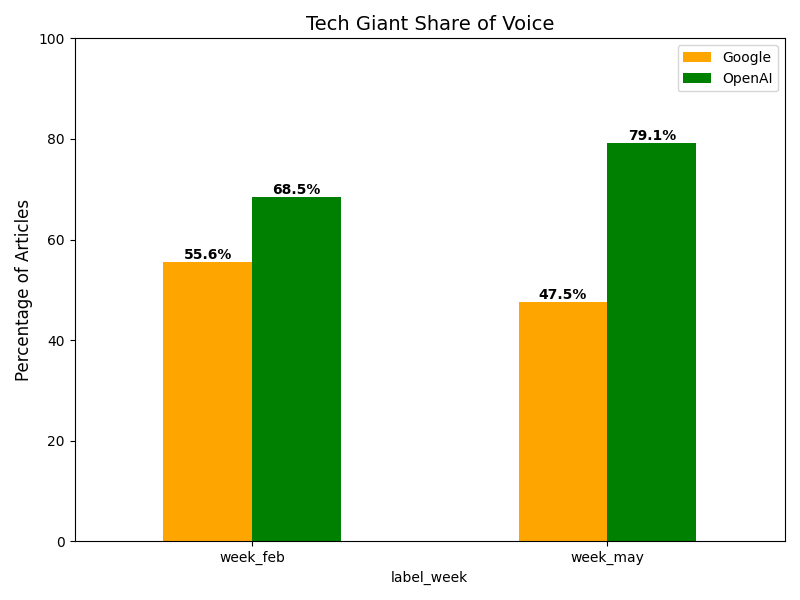
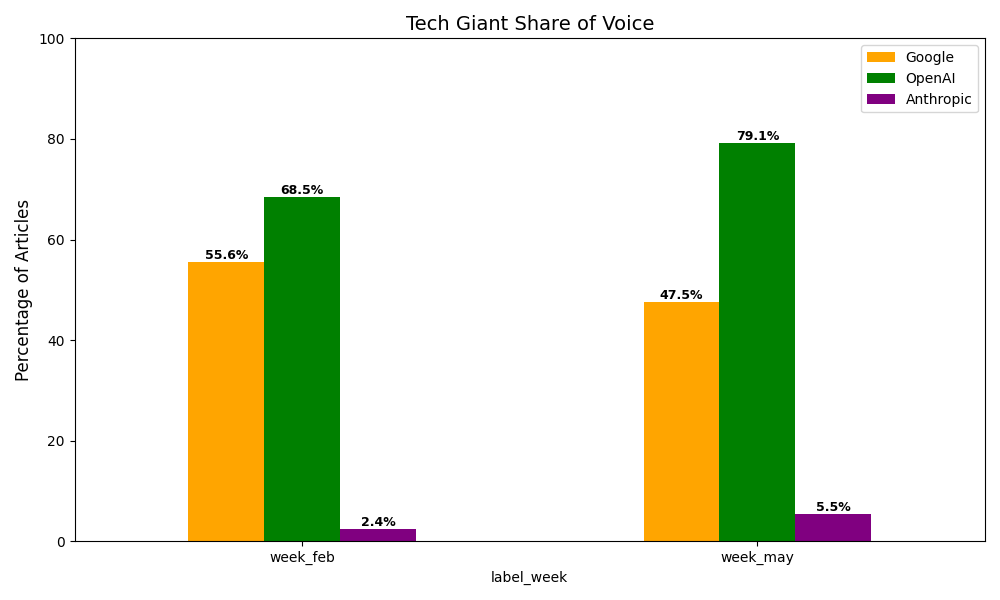
Update paths

diff --git a/gdelt/scripts/generate_report.py b/gdelt/scripts/generate_report.py
@@ -15,9 +15,9 @@ spark = glueContext.spark_session
 spark.sparkContext.setLogLevel("ERROR")
 
 # The folder inside Docker where files are read/written
-DATA_DIR = "file:///home/glue_user/workspace/data/"
-OUTPUT_DIR = "/home/glue_user/workspace/result_markdowns/"
-GRAPH_DIR = "/home/glue_user/workspace/graphs/"
+DATA_DIR = "file:///home/glue_user/workspace/data/gdelt/data/"
+OUTPUT_DIR = "/home/glue_user/workspace/data/gdelt/result_markdowns/"
+GRAPH_DIR = "/home/glue_user/workspace/data/gdelt/graphs/"
 
 print("--- Starting GDELT Analysis Job ---")
 
@@ -35,7 +35,8 @@ stats_df = spark.sql("""
         round(avg(v2tone_1), 2) as avg_tone,
         round(avg(v2tone_3), 2) as avg_neg,
         round(avg(k_google)*100, 1) as pct_google,
-        round(avg(k_openai)*100, 1) as pct_openai
+        round(avg(k_openai)*100, 1) as pct_openai,
+        round(avg(k_anthropic)*100, 1) as pct_anthropic
     FROM gdelt 
     GROUP BY label_week
     ORDER BY label_week
@@ -190,11 +191,12 @@ pdf_stats = pdf_stats.set_index('label_week')
 # Rename columns for the legend
 pdf_stats = pdf_stats.rename(columns={
     'pct_google': 'Google', 
-    'pct_openai': 'OpenAI'
+    'pct_openai': 'OpenAI',
+    'pct_anthropic': 'Anthropic'
 })
 
 # Plot
-ax = pdf_stats[['Google', 'OpenAI']].plot(kind='bar', figsize=(8, 6), color=['orange', 'green'])
+ax = pdf_stats[['Google', 'OpenAI', 'Anthropic']].plot(kind='bar', figsize=(10, 6), color=['orange', 'green', 'purple'])
 plt.title("Tech Giant Share of Voice", fontsize=14)
 plt.ylabel("Percentage of Articles", fontsize=12)
 plt.xticks(rotation=0)
@@ -202,9 +204,10 @@ plt.ylim(0, 100) # Fix y-axis to 0-100%
 
 # Add value labels on top of bars
 for p in ax.patches:
-    ax.annotate(f'{p.get_height():.1f}%', 
-                (p.get_x() + p.get_width() / 2., p.get_height()), 
-                ha='center', va='bottom', fontsize=10, fontweight='bold')
+    if p.get_height() > 0:  # Only show labels for non-zero values
+        ax.annotate(f'{p.get_height():.1f}%', 
+                    (p.get_x() + p.get_width() / 2., p.get_height()), 
+                    ha='center', va='bottom', fontsize=9, fontweight='bold')
 
 plt.tight_layout()
 plt.savefig(GRAPH_DIR + "graph_share_of_voice.png")

diff --git a/gdelt/scripts/entity_analysis.py b/gdelt/scripts/entity_analysis.py
@@ -12,12 +12,12 @@ glueContext = GlueContext(sc)
 spark = glueContext.spark_session
 spark.sparkContext.setLogLevel("ERROR")
 
-OUTPUT_DIR = "/home/glue_user/workspace/result_markdowns/"
+OUTPUT_DIR = "/home/glue_user/workspace/data/gdelt/result_markdowns/"
 GRAPH_DIR = "/home/glue_user/workspace/graphs/"
 print("--- Starting Entity Sentiment Analysis ---")
 
 # 1. LOAD DATA
-df = spark.read.parquet("file:///home/glue_user/workspace/data/gdelt_ml_features.parquet")
+df = spark.read.parquet("file:///home/glue_user/workspace/data/gdelt/data/gdelt_ml_features.parquet")
 df.createOrReplaceTempView("gdelt")
 
 # 2. RUN "STACKED" QUERY

diff --git a/gdelt/scripts/generate_network_report.py b/gdelt/scripts/generate_network_report.py
@@ -15,9 +15,9 @@ glueContext = GlueContext(sc)
 spark = glueContext.spark_session
 spark.sparkContext.setLogLevel("ERROR")
 
-DATA_DIR = "file:///home/glue_user/workspace/data/"
-OUTPUT_DIR = "/home/glue_user/workspace/result_markdowns/"
-GRAPH_DIR = "/home/glue_user/workspace/graphs/"
+DATA_DIR = "file:///home/glue_user/workspace/data/gdelt/data/"
+OUTPUT_DIR = "/home/glue_user/workspace/data/gdelt/result_markdowns/"
+GRAPH_DIR = "/home/glue_user/workspace/data/gdelt/graphs/"
 
 print("--- Starting Source & Network Analysis ---")
 

diff --git a/gdelt/result_markdowns/summary_report.md b/gdelt/result_markdowns/summary_report.md
@@ -38,6 +38,8 @@ The following features were the strongest predictors for the time period:
 
 ## 4. INTERPRETATION
 
+**A widening gap in Tech Giants**: OpenAI dominated both periods, but Google was significantly more prominent in Feb (55%) than in May (47%), making it a strong signal for the earlier period.
+
 **February 2024** was defined by "Google Gemini" coverage. The correlation with higher negative scores and self-referencing language suggests this period contained significant critical analysis, op-eds, and controversy regarding Google's AI launches.
 
 **May 2024** was defined by "OpenAI GPT-4o" and "Anthropic" coverage. The shift to positive tone and objective language indicates a reception focused more on product capabilities, launch announcements, and factual reporting rather than controversy.

diff --git a/gdelt/result_markdowns/entity_sentiment_snippet.md b/gdelt/result_markdowns/entity_sentiment_snippet.md
@@ -1,0 +1,7 @@
+## ENTITY SENTIMENT (Did everyone get happier?)
+
+| Company | Feb Tone | May Tone | Change |
+| :--- | :--- | :--- | :--- |
+| **Google** | 1.19 | 2.16 | +0.97 |
+| **OpenAI** | -0.20 | 1.99 | +2.18 |
+| **Anthropic** | 2.38 | 2.48 | +0.09 |
